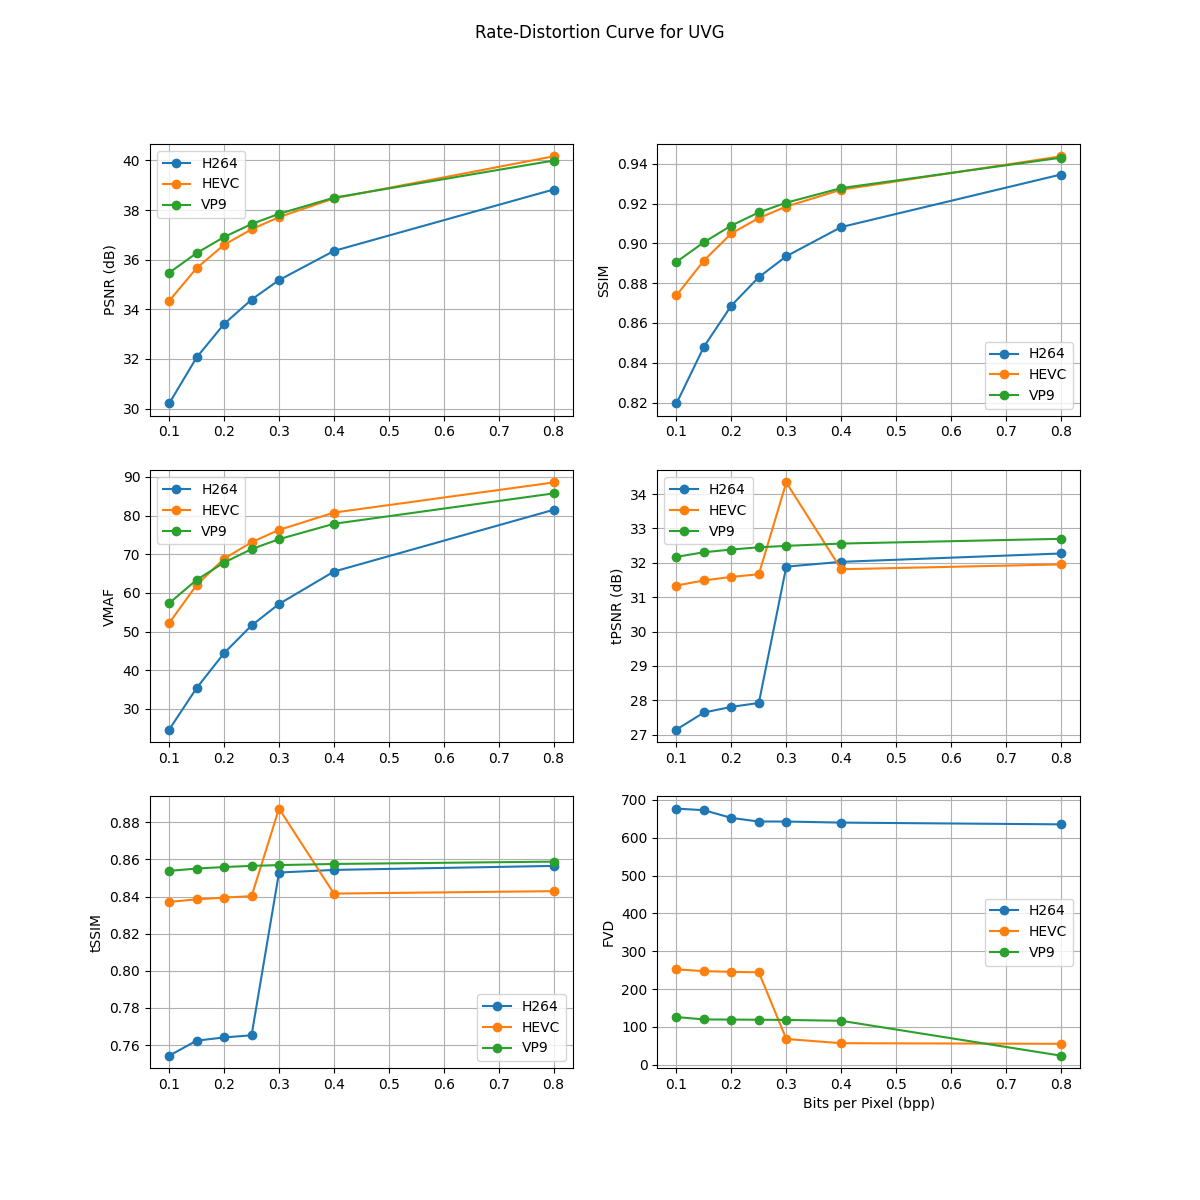
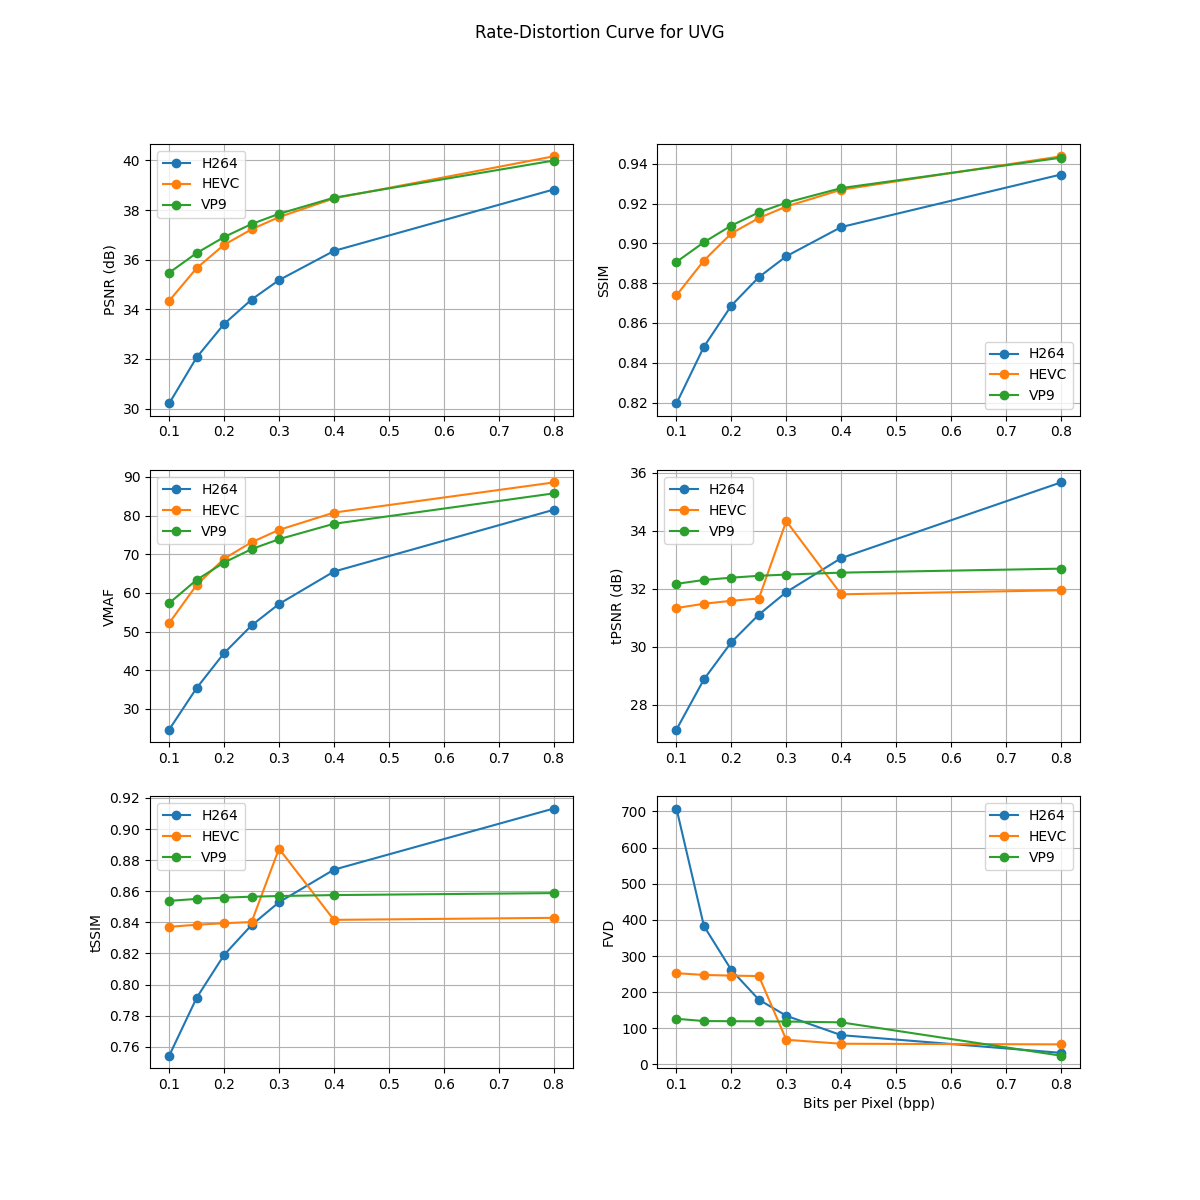
new results, because prev uvg results were faulty according to reference papers

diff --git a/eval_metrics.py b/eval_metrics.py
@@ -5,12 +5,10 @@ import argparse
 import warnings
 import json
 import fvd_metric.fvd as fvd
-from metrics_utils import \
-                            \
+from metrics_utils import compute_tSSIM_and_tPSNR_by_paths, tPSNR_by_paths, tSSIM_by_paths, \
                             compute_movie_index_by_paths, \
                             ST_RRED_by_paths
 
-from metrics.TPSNR_and_TSSIM import compute_tSSIM_and_tPSNR_by_paths, tPSNR_by_paths, tSSIM_by_paths
 
 warnings.filterwarnings("ignore", category=UserWarning)
 warnings.filterwarnings("ignore", category=FutureWarning)
@@ -32,9 +30,9 @@ def find_original_for_compressed(video_name):
 
 datasets = ["UVG"]
 codecs = ["h264","hevc","vp9"]
-levels = ["1","1.5","2","2.5"]
+levels = ["1","1.5","2","2.5","3","4","8"]
 
-compute_metrics =["tpsnr","tssim"]
+compute_metrics =["tpsnr","tssim","fvd"]
 
 force = True
 # is force is True we recompute all metrics even if they already exist
@@ -109,7 +107,7 @@ for dataset in datasets:
         else:
             print("Skipping VMAF as already computed or not required.")
 
-        if "fvd" in compute_metrics and "fvd" not in existing_data.get(video, {}):
+        if "fvd" in compute_metrics and ("fvd" not in existing_data.get(video, {}) or force):
             print("FVD")
             fvd_value = fvd.fvd_pipeline(input_video, compressed_video)
             print(fvd_value)
@@ -117,26 +115,26 @@ for dataset in datasets:
         else:
             print("Skipping FVD as already computed or not required.")
 
-        if "tssim" in compute_metrics and "tpsnr" in compute_metrics and not ("tssim" in existing_data.get(video, {}) and "tpsnr" in existing_data.get(video, {})):
+        if "tssim" in compute_metrics and "tpsnr" in compute_metrics and (not ("tssim" in existing_data.get(video, {}) and "tpsnr" in existing_data.get(video, {})) or force):
             print("tSSIM and tPSNR")
             temporal_ssim, temporal_psnr = compute_tSSIM_and_tPSNR_by_paths(input_video, compressed_video)
             print("tSSIM:", temporal_ssim)
             print("tPSNR:", temporal_psnr)
             json_output[video]["tssim"] = temporal_ssim
             json_output[video]["tpsnr"] = temporal_psnr
-        elif "tssim" in compute_metrics and "tssim" not in existing_data.get(video, {}):
+        elif "tssim" in compute_metrics and (not "tssim" in existing_data.get(video, {}) or force):
             print("tSSIM")
             temporal_ssim = tSSIM_by_paths(input_video, compressed_video)
             print(temporal_ssim)
             json_output[video]["tssim"] = temporal_ssim
-        elif "tpsnr" in compute_metrics and "tpsnr" not in existing_data.get(video, {}):
+        elif "tpsnr" in compute_metrics and (not "tpsnr" in existing_data.get(video, {}) or force):
             print("tPSNR")
             temporal_psnr = tPSNR_by_paths(input_video, compressed_video)
             print(temporal_psnr)
             json_output[video]["tpsnr"] = temporal_psnr
         
 
-        if "movie_index" in compute_metrics and "movie_index" not in existing_data.get(video, {}):
+        if "movie_index" in compute_metrics and (not "movie_index" in existing_data.get(video, {}) or force):
             print("Movie Index")
             movie_index_value = compute_movie_index_by_paths(input_video, compressed_video)
             print(movie_index_value)
@@ -144,7 +142,7 @@ for dataset in datasets:
         else:
             print("Skipping Movie Index as already computed or not required.")
 
-        if "st_rred" in compute_metrics and "st_rred" not in existing_data.get(video, {}):
+        if "st_rred" in compute_metrics and (not "st_rred" in existing_data.get(video, {}) or force):
             print("ST-RRED")
             st_rred_value = ST_RRED_by_paths(input_video, compressed_video)
             print(st_rred_value)
